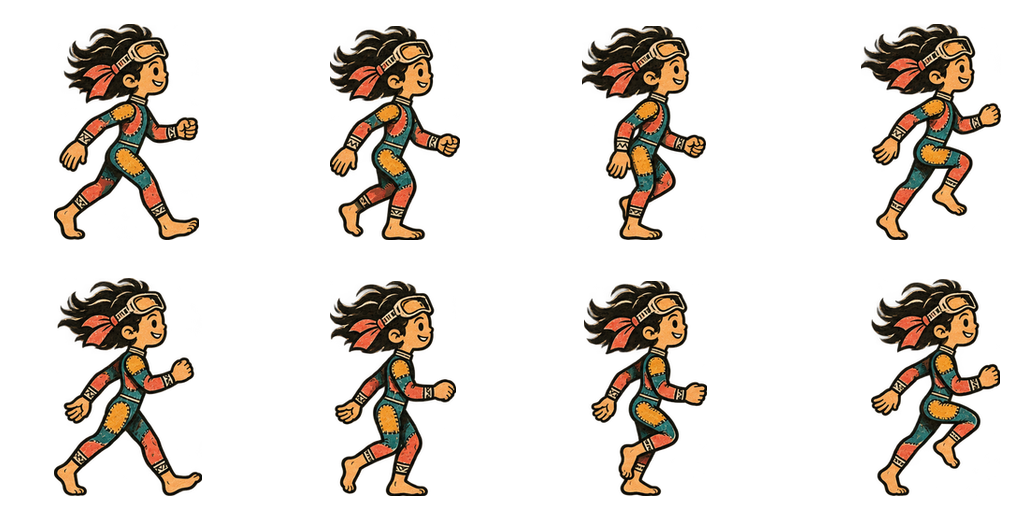
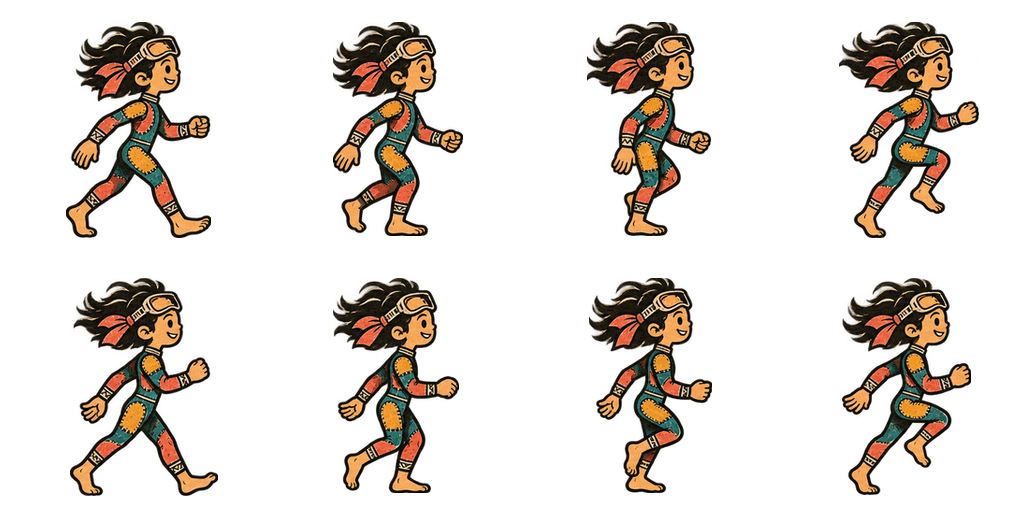
Add resting animations and stabilize walking frame alignment

diff --git a/src/game.js b/src/game.js
@@ -91,24 +91,40 @@ function makeWorldTextures(scene) {
   });
 }
 
+// Blend poses at state changes; movement and idle each own a distinct animation.
+function transitionPose(scene,sprite,texture,animation){
+  if(sprite.poseGhost){scene.tweens.killTweensOf(sprite.poseGhost);sprite.poseGhost.destroy();}
+  scene.tweens.killTweensOf(sprite);
+  const ghost=scene.add.image(sprite.x,sprite.y,sprite.texture.key,sprite.frame.name).setOrigin(sprite.originX,sprite.originY).setScale(sprite.scaleX,sprite.scaleY).setFlipX(sprite.flipX).setAngle(sprite.angle).setDepth(sprite.depth+.1);
+  sprite.poseGhost=ghost;
+  sprite.anims.stop();sprite.setTexture(texture,0);
+  if(!reducedMotion)sprite.play(animation);
+  if(reducedMotion){ghost.destroy();sprite.poseGhost=null;sprite.setAlpha(1);return;}
+  sprite.setAlpha(0);
+  scene.tweens.add({targets:sprite,alpha:1,duration:140});
+  scene.tweens.add({targets:ghost,alpha:0,duration:140,onUpdate:()=>ghost.setPosition(sprite.x,sprite.y).setFlipX(sprite.flipX).setAngle(sprite.angle),onComplete:()=>{ghost.destroy();if(sprite.poseGhost===ghost)sprite.poseGhost=null;}});
+}
+
 class ReefScene extends Phaser.Scene {
   constructor() { super('ReefScene'); }
   init(data) { this.autoStart = Boolean(data?.autoStart); }
   preload() {
-    this.load.json('game-art-manifest','/images/game/manifest.json?v=village-rebuild-7');
+    this.load.json('game-art-manifest','/images/game/manifest.json?v=idle-transition-8');
     this.load.image('reef-print', '/images/game/reef.webp');
     for (const [key,file] of [['reef-diver','diver-swim'],['fish-reef','gold-swim'],['fish-moon','teal-swim'],['fish-coral','coral-swim'],['reef-shark','shark-swim'],['villager-0','malia-idle'],['villager-1','tane-idle'],['villager-2','piko-idle']]) {
-      this.load.spritesheet(key, `/images/game/${file}.webp?v=village-rebuild-7`, {frameWidth:256,frameHeight:256});
+      this.load.spritesheet(key, `/images/game/${file}.webp?v=idle-transition-8`, {frameWidth:256,frameHeight:256});
     }
-    this.load.image('town-restored','/images/game/town-restored.webp?v=village-rebuild-7');
-    this.load.image('town-panorama','/images/game/town-panorama.webp?v=village-rebuild-7');
-    this.load.spritesheet('shore-diver','/images/game/shore-walk.webp?v=village-rebuild-7',{frameWidth:256,frameHeight:256});
+    this.load.image('town-restored','/images/game/town-restored.webp?v=idle-transition-8');
+    this.load.image('town-panorama','/images/game/town-panorama.webp?v=idle-transition-8');
+    this.load.spritesheet('shore-idle','/images/game/shore-idle.webp?v=idle-transition-8',{frameWidth:256,frameHeight:256});
+    this.load.spritesheet('diver-float','/images/game/diver-float.webp?v=idle-transition-8',{frameWidth:256,frameHeight:256});
+    this.load.spritesheet('shore-diver','/images/game/shore-walk.webp?v=idle-transition-8',{frameWidth:256,frameHeight:256});
     this.load.image('boat-art','/images/game/boat.webp');
     this.load.image('shell-charm','/images/game/charm.webp');
   }
   create() {
     makeWorldTextures(this);
-    for(const [key,count,fps] of [['reef-diver',12,10],['fish-reef',8,8],['fish-moon',8,8],['fish-coral',8,8],['reef-shark',8,7],['villager-0',6,3],['villager-1',6,3],['villager-2',6,3]]){
+    for(const [key,count,fps] of [['diver-float',8,4],['shore-idle',8,4],['reef-diver',12,10],['fish-reef',8,8],['fish-moon',8,8],['fish-coral',8,8],['reef-shark',8,7],['villager-0',6,3],['villager-1',6,3],['villager-2',6,3]]){
       if(!this.anims.exists(key+'-loop'))this.anims.create({key:key+'-loop',frames:this.anims.generateFrameNumbers(key,{start:0,end:count-1}),frameRate:fps,repeat:-1});
     }
     this.game.canvas.dataset.scene='reef';
@@ -248,12 +264,12 @@ class ReefScene extends Phaser.Scene {
     const state=moving?'swimming':'floating';
     if(this.locomotionState!==state){
       this.locomotionState=state;
-      if(moving&&!reducedMotion)this.player.play('reef-diver-loop');
-      else {this.player.anims.stop();this.player.setFrame(2);}
+      transitionPose(this,this.player,moving?'reef-diver':'diver-float',moving?'reef-diver-loop':'diver-float-loop');
       this.game.canvas.dataset.scene='reef';
       this.game.canvas.dataset.swimmerState=state;
     }
     this.game.canvas.dataset.swimmerFrame=String(this.player.frame.name);
+    this.game.canvas.dataset.swimmerTexture=this.player.texture.key;
   }
   startDive() {
     if (this.activeDive) return;
@@ -435,7 +451,8 @@ class ShoreScene extends Phaser.Scene {
     this.paintRepairs();
     this.player=this.add.sprite(160,452,'shore-diver').setDisplaySize(116,116).setOrigin(.5,.94).setDepth(12);
     if(!this.anims.exists('shore-walk'))this.anims.create({key:'shore-walk',frames:this.anims.generateFrameNumbers('shore-diver',{start:0,end:7}),frameRate:10,repeat:-1});
-    this.cameras.main.startFollow(this.player,true,.08,.08);
+    this.cameras.main.startFollow(this.player,false,.08,.08);
+    this.walkState=null;this.setWalking(false);
     this.touch={x:0};this.target=null;
     this.keys=this.input.keyboard.addKeys('LEFT,RIGHT,A,D,SPACE');
     villagePlaces.forEach((v,i)=>{
@@ -480,12 +497,19 @@ class ShoreScene extends Phaser.Scene {
     this.game.canvas.dataset.repairs=JSON.stringify(saved.repairs);
     if(saved.sharedFish>0){for(const x of [335,680,990])this.repairLayer.add(this.add.circle(x,350,24,0xffce72,.15));}
   }
+  setWalking(moving){
+    const state=moving?'walking':'standing';
+    if(this.walkState!==state){this.walkState=state;transitionPose(this,this.player,moving?'shore-diver':'shore-idle',moving?'shore-walk':'shore-idle-loop');}
+    this.game.canvas.dataset.walkerState=state;this.game.canvas.dataset.walkerTexture=this.player.texture.key;this.game.canvas.dataset.walkerFrame=String(this.player.frame.name);
+  }
   update(time,delta){
     let direction=Number(this.keys.RIGHT.isDown||this.keys.D.isDown)-Number(this.keys.LEFT.isDown||this.keys.A.isDown)+(this.touch.x||0);
     if(direction)this.target=null;
     if(this.target!==null){if(Math.abs(this.target-this.player.x)<5)this.target=null;else direction=Math.sign(this.target-this.player.x);}
-    this.player.x=Phaser.Math.Clamp(this.player.x+direction*190*Math.min(delta,40)/1000,70,1730);
-    if(direction){this.player.setFlipX(direction<0);if(!reducedMotion&&!this.player.anims.isPlaying)this.player.play('shore-walk');}else{this.player.anims.stop();this.player.setFrame(2);}
+    const oldX=this.player.x;
+    this.player.x=Phaser.Math.Clamp(oldX+direction*190*Math.min(delta,40)/1000,70,1730);
+    if(direction)this.player.setFlipX(direction<0);
+    this.setWalking(Math.abs(this.player.x-oldX)>.01);
     if(Phaser.Input.Keyboard.JustDown(this.keys.SPACE))this.interact();
     this.game.canvas.dataset.villagePosition=String(Math.round(this.player.x));
   }
@@ -563,7 +587,7 @@ const game = new Phaser.Game({
   backgroundColor: '#2a7776',
   scale: { mode: Phaser.Scale.FIT, autoCenter: Phaser.Scale.CENTER_BOTH, width: WIDTH, height: HEIGHT },
   physics: { default: 'arcade', arcade: { gravity: { y: 0 }, debug: false } },
-  render: { antialias: true, pixelArt: false, roundPixels: true },
+  render: { antialias: true, pixelArt: false, roundPixels: false },
   scene: [ReefScene, ShoreScene],
 });
 

diff --git a/public/index.html b/public/index.html
@@ -7,8 +7,8 @@
   <meta name="description" content="Dive the reef, bring home fish, and help a village rebuild in Reefkeeper.">
   <title>Reefkeeper — Charlie's Game Lab</title>
   <link rel="preload" as="image" href="/images/reefkeeper-key-art.png">
-  <link rel="stylesheet" href="/style.css?v=village-rebuild-7">
-  <script src="/reefkeeper-2d.js?v=village-rebuild-7" defer></script>
+  <link rel="stylesheet" href="/style.css?v=idle-transition-8">
+  <script src="/reefkeeper-2d.js?v=idle-transition-8" defer></script>
 </head>
 <body>
   <div class="shell">

diff --git a/docs/rebuild.md b/docs/rebuild.md
@@ -28,3 +28,9 @@ New production art, generated with the built-in image tool:
 ## Regression checks
 
 `npm run test:e2e` covers keyboard/touch diving, catch, float vs swim, charm, return, food, score submission and offline behavior, next day and saved progress; additionally real-control timber collection, village walking and destinations, repairs and timber expenditure, species reward, market upgrade, repair persistence, and mobile overflow. Multi-day progression uses a seeded save to avoid repetitive grinding in tests.
+
+## Movement-state correction
+
+Standing and floating use dedicated eight-frame idle sheets, generated with the built-in image tool. Shore idle brief: same character and print style, side profile, both bare feet planted, arms relaxed, subtle breathing/blink, transparent 4x2 atlas. Floating brief: same diver and basket, relaxed slightly diagonal hover, both hands at basket, no swim strokes or alternating kicks, eight transparent frames. Float generation required a background-removal correction.
+
+Assets: `art/source/shore-idle.png` and `art/source/diver-float.png`, exported beside the other game atlases. State changes blend poses over 140ms; reduced-motion mode uses a static idle pose. Walking is registered around a stable head/body anchor instead of the alternating contact foot. Camera rendering preserves fractional pixels.
